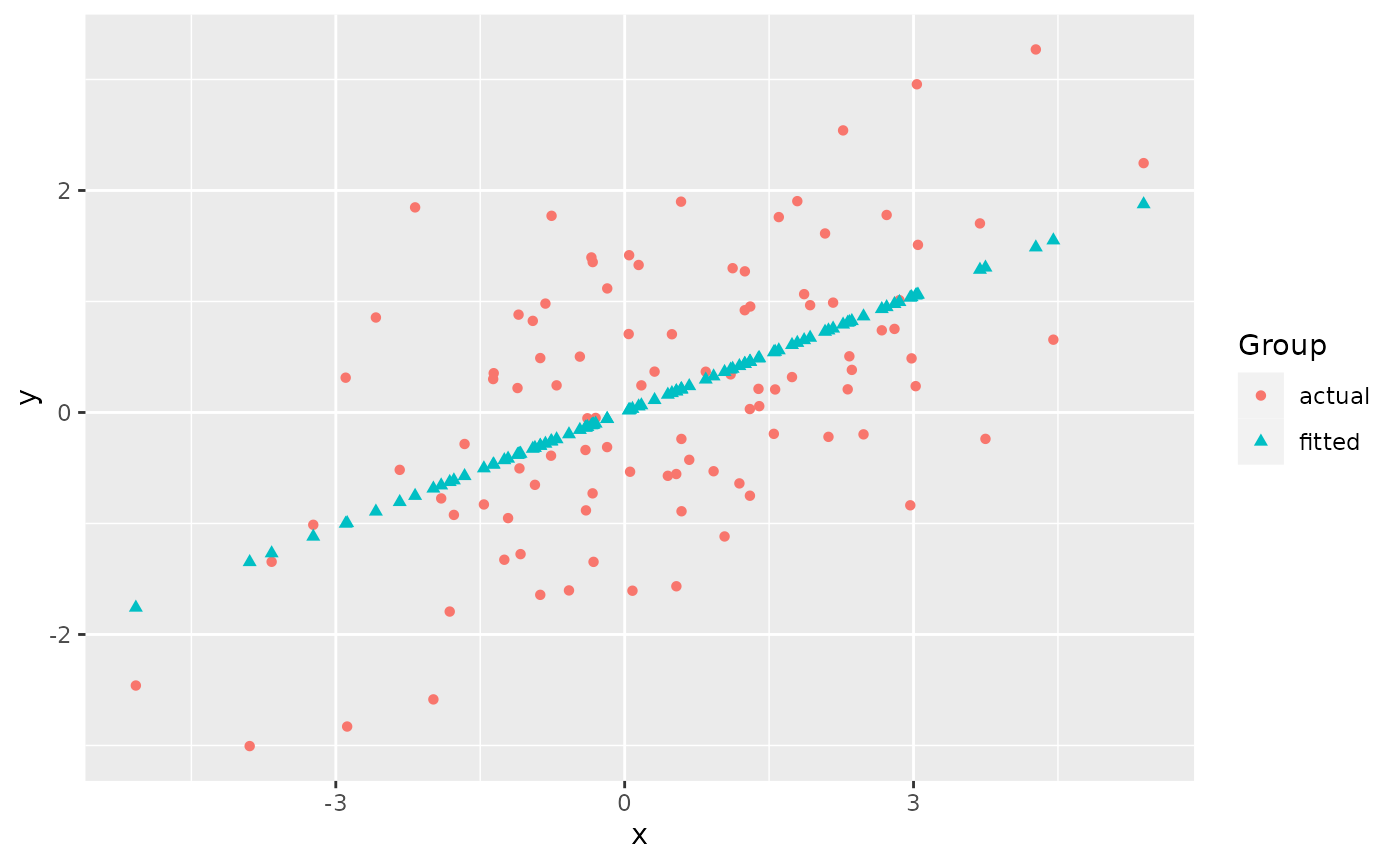
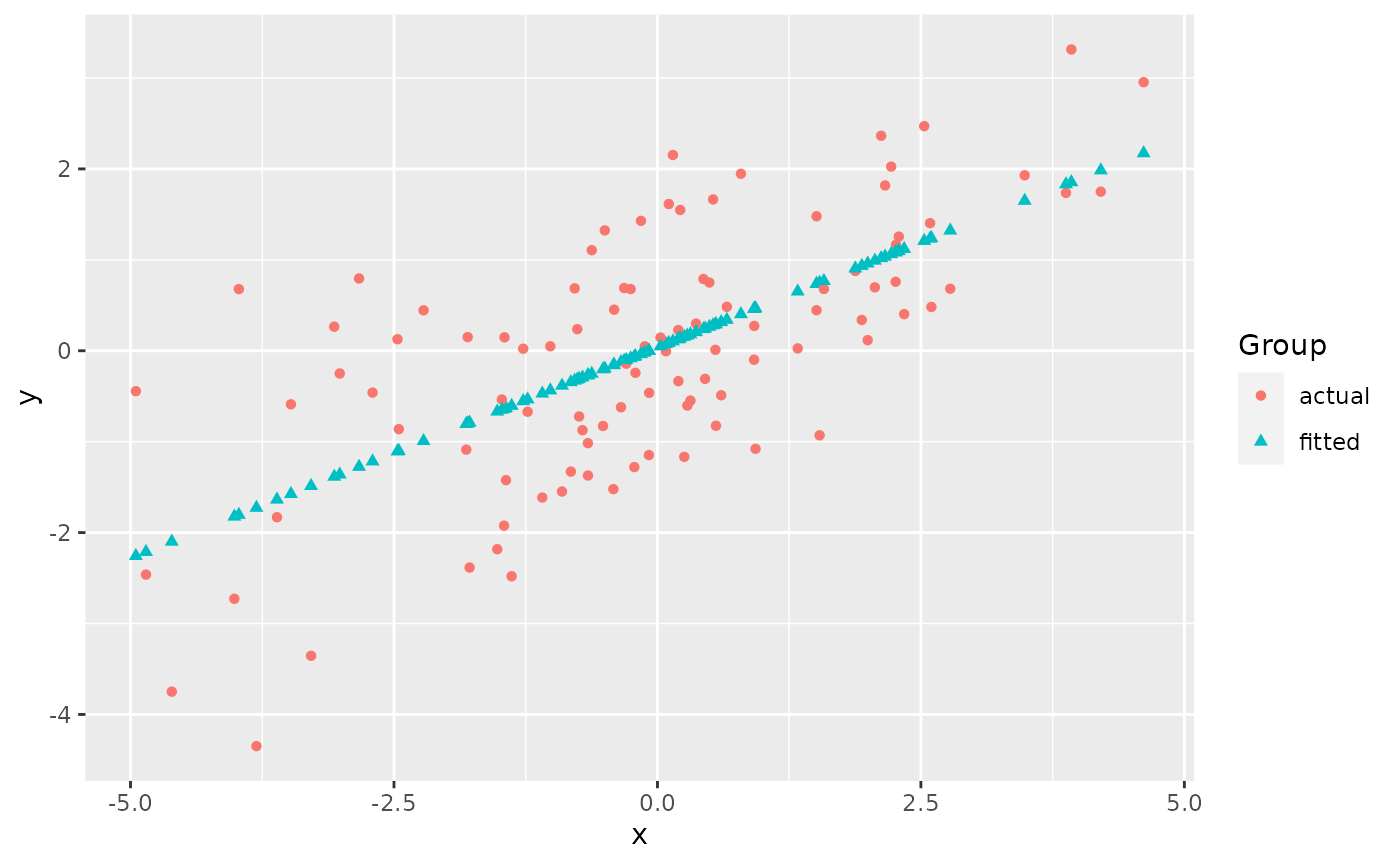
Built site for ggmatplot: 0.1.0.9000@0204e37

diff --git a/articles/ggmatplot.html b/articles/ggmatplot.html
@@ -103,7 +103,7 @@
 <span class="va">x</span> <span class="op">&lt;-</span> <span class="fu"><a href="https://rdrr.io/r/base/c.html" class="external-link">c</a></span><span class="op">(</span><span class="fu"><a href="https://rdrr.io/r/stats/Normal.html" class="external-link">rnorm</a></span><span class="op">(</span><span class="fl">100</span>, sd <span class="op">=</span> <span class="fl">2</span><span class="op">)</span><span class="op">)</span>
 
 <span class="fu"><a href="https://rdrr.io/r/utils/head.html" class="external-link">head</a></span><span class="op">(</span><span class="va">x</span><span class="op">)</span>
-<span class="co">#&gt; [1]  1.9260975  1.5491454 -2.8821149 -0.1810257 -0.9542405 -0.3014146</span>
+<span class="co">#&gt; [1]  1.3309022  0.9170752 -0.7431712 -0.3457657 -3.8052952 -1.0926423</span>
 
 <span class="co"># matrix z</span>
 <span class="va">y</span> <span class="op">&lt;-</span> <span class="va">x</span> <span class="op">*</span> <span class="fl">0.5</span> <span class="op">+</span> <span class="fu"><a href="https://rdrr.io/r/stats/Normal.html" class="external-link">rnorm</a></span><span class="op">(</span><span class="fl">100</span>, sd <span class="op">=</span> <span class="fl">1</span><span class="op">)</span>
@@ -112,13 +112,13 @@
            fitted <span class="op">=</span> <span class="va">fit.y</span><span class="op">)</span>
 
 <span class="fu"><a href="https://rdrr.io/r/utils/head.html" class="external-link">head</a></span><span class="op">(</span><span class="va">z</span><span class="op">)</span>
-<span class="co">#&gt;        actual      fitted</span>
-<span class="co">#&gt; 1  0.96653673  0.67350796</span>
-<span class="co">#&gt; 2 -0.19244100  0.54261859</span>
-<span class="co">#&gt; 3 -2.82933583 -0.99605154</span>
-<span class="co">#&gt; 4  1.11749312 -0.05815013</span>
-<span class="co">#&gt; 5  0.82526587 -0.32663415</span>
-<span class="co">#&gt; 6 -0.04912134 -0.09995286</span></code></pre></div>
+<span class="co">#&gt;        actual     fitted</span>
+<span class="co">#&gt; 1  0.02566483  0.6520653</span>
+<span class="co">#&gt; 2 -0.09868017  0.4603880</span>
+<span class="co">#&gt; 3 -0.72276241 -0.3086085</span>
+<span class="co">#&gt; 4 -0.62101391 -0.1245374</span>
+<span class="co">#&gt; 5 -4.34793325 -1.7269299</span>
+<span class="co">#&gt; 6 -1.61457551 -0.4704773</span></code></pre></div>
 <p><code>ggmatplot</code> plots vector <code>x</code> against each column of matrix <code>z</code> using the default <code>plot_type = "point"</code>. This will be represented on the resulting plot as two groups, identified using different shapes and colors.</p>
 <div class="sourceCode" id="cb2"><pre class="downlit sourceCode r">
 <code class="sourceCode R"><span class="kw"><a href="https://rdrr.io/r/base/library.html" class="external-link">library</a></span><span class="op">(</span><span class="va"><a href="https://github.com/xuan-liang/ggmatplot" class="external-link">ggmatplot</a></span><span class="op">)</span>
